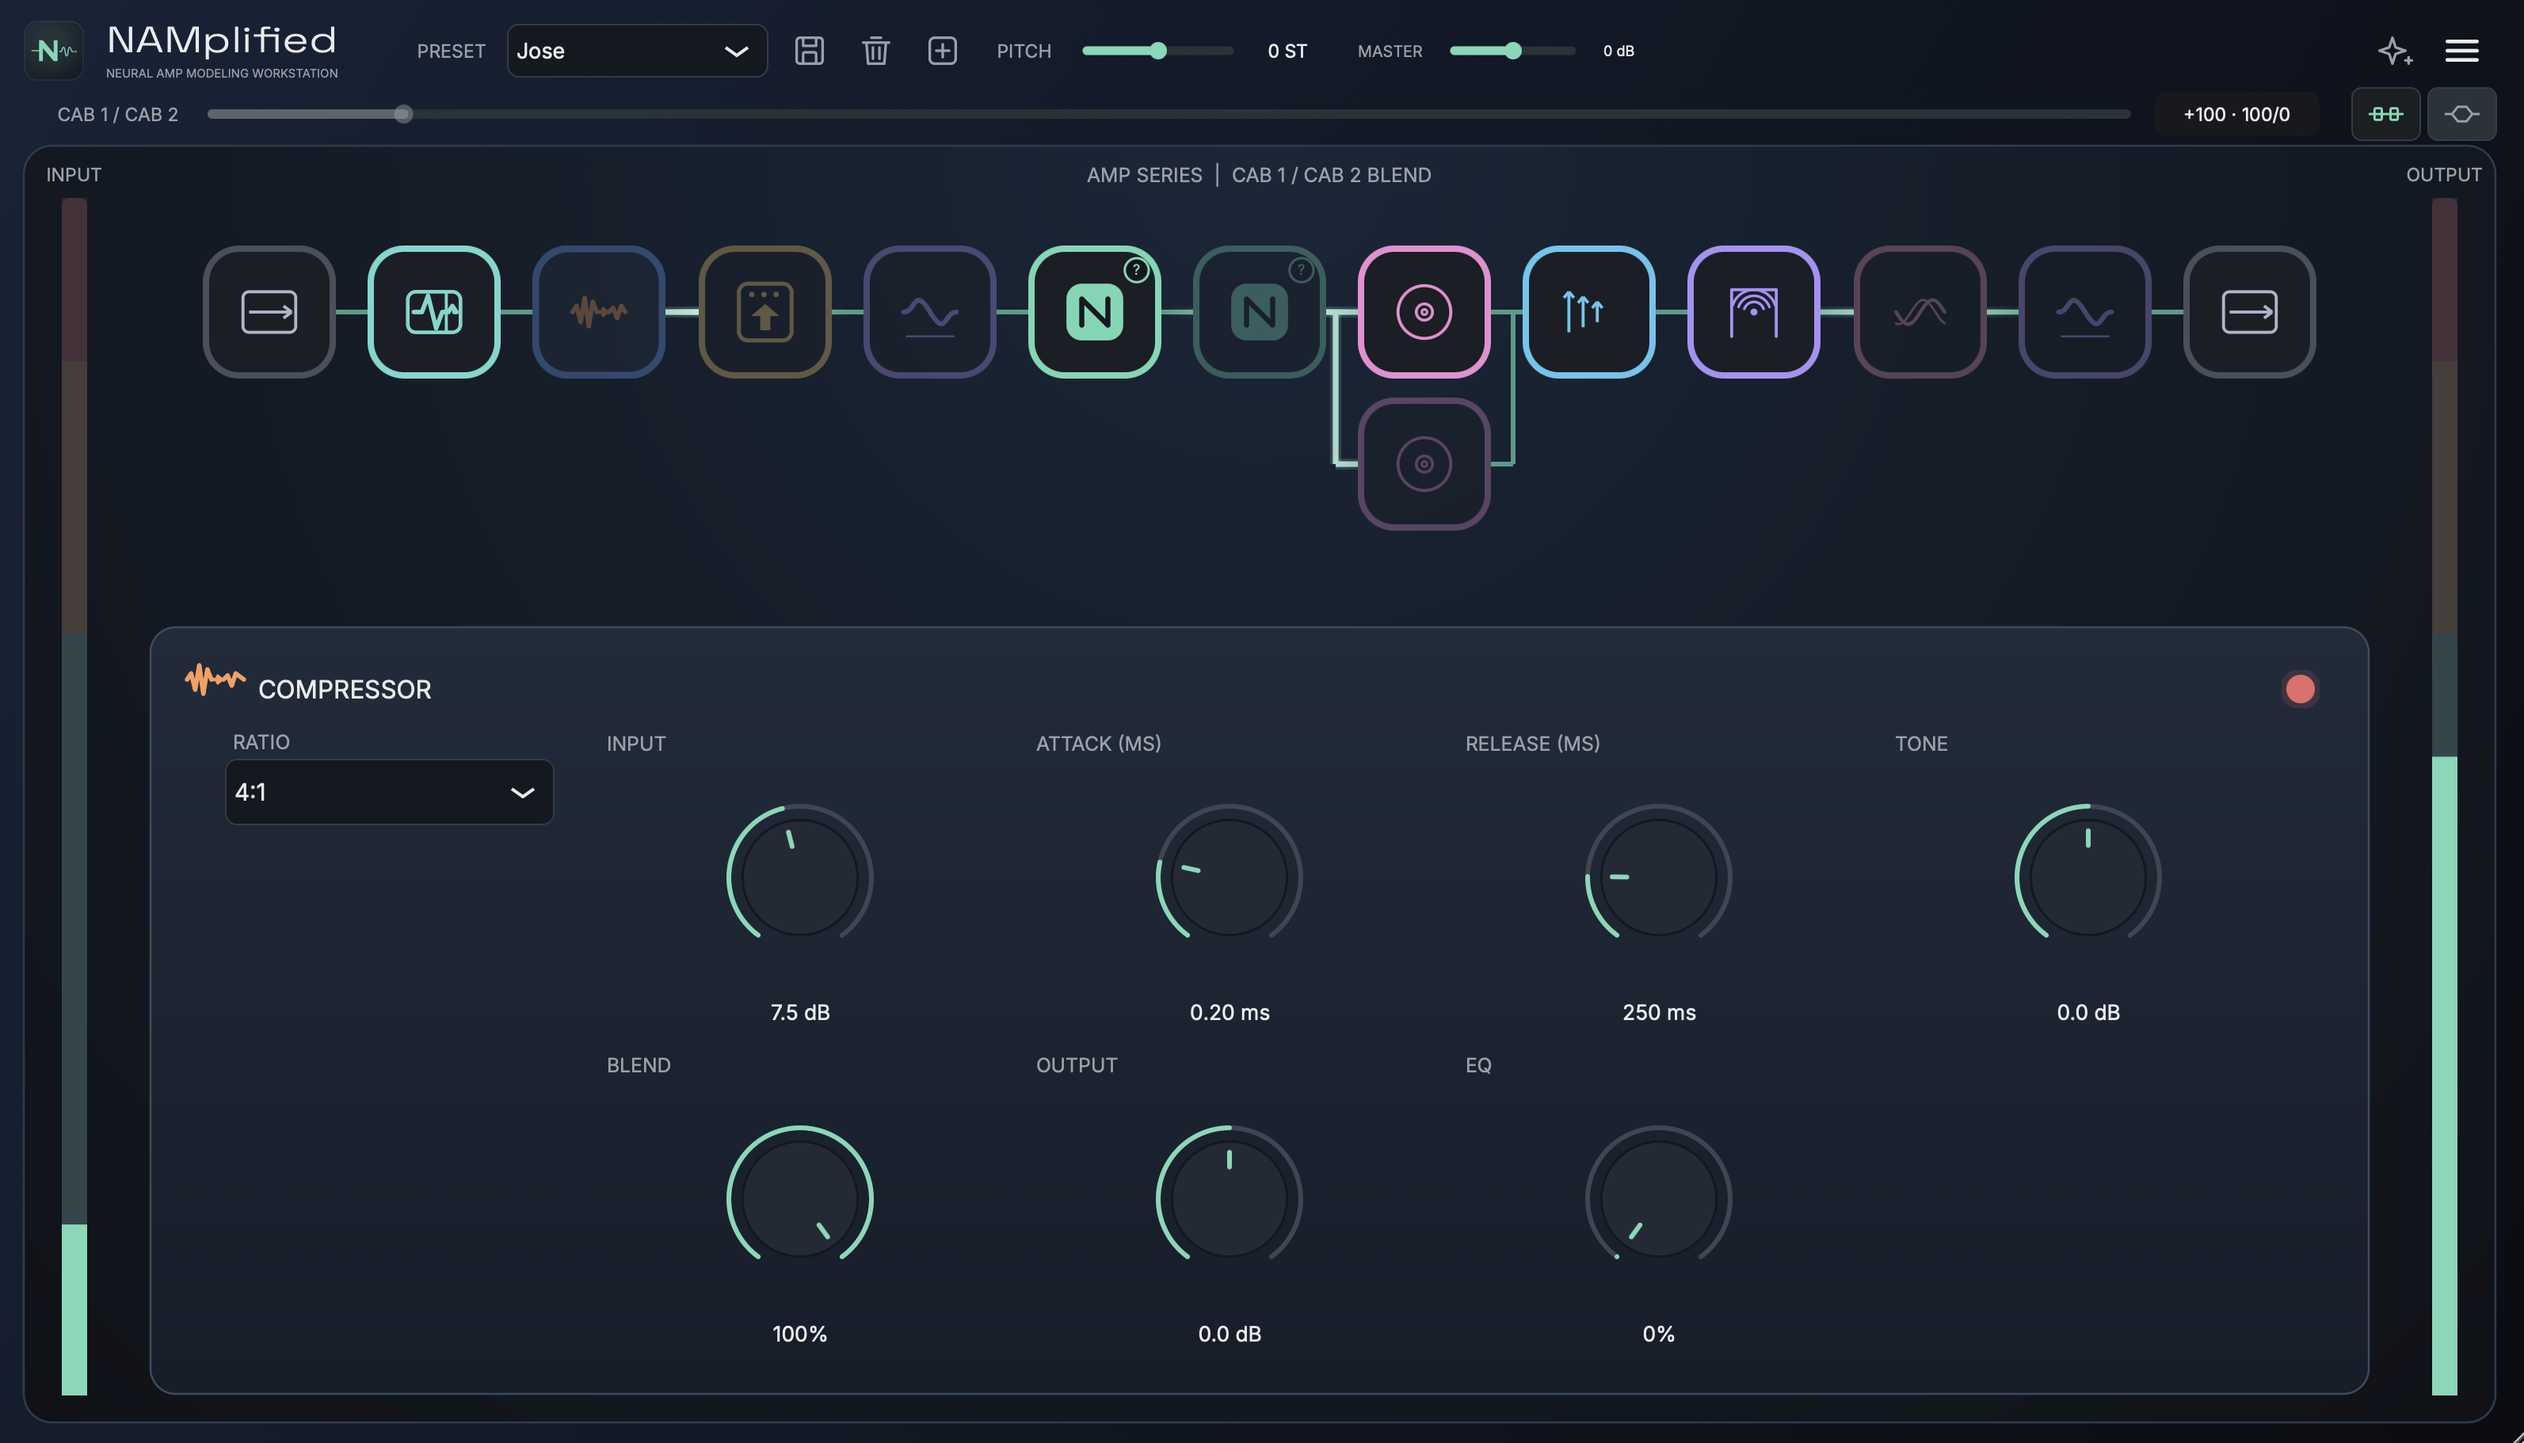
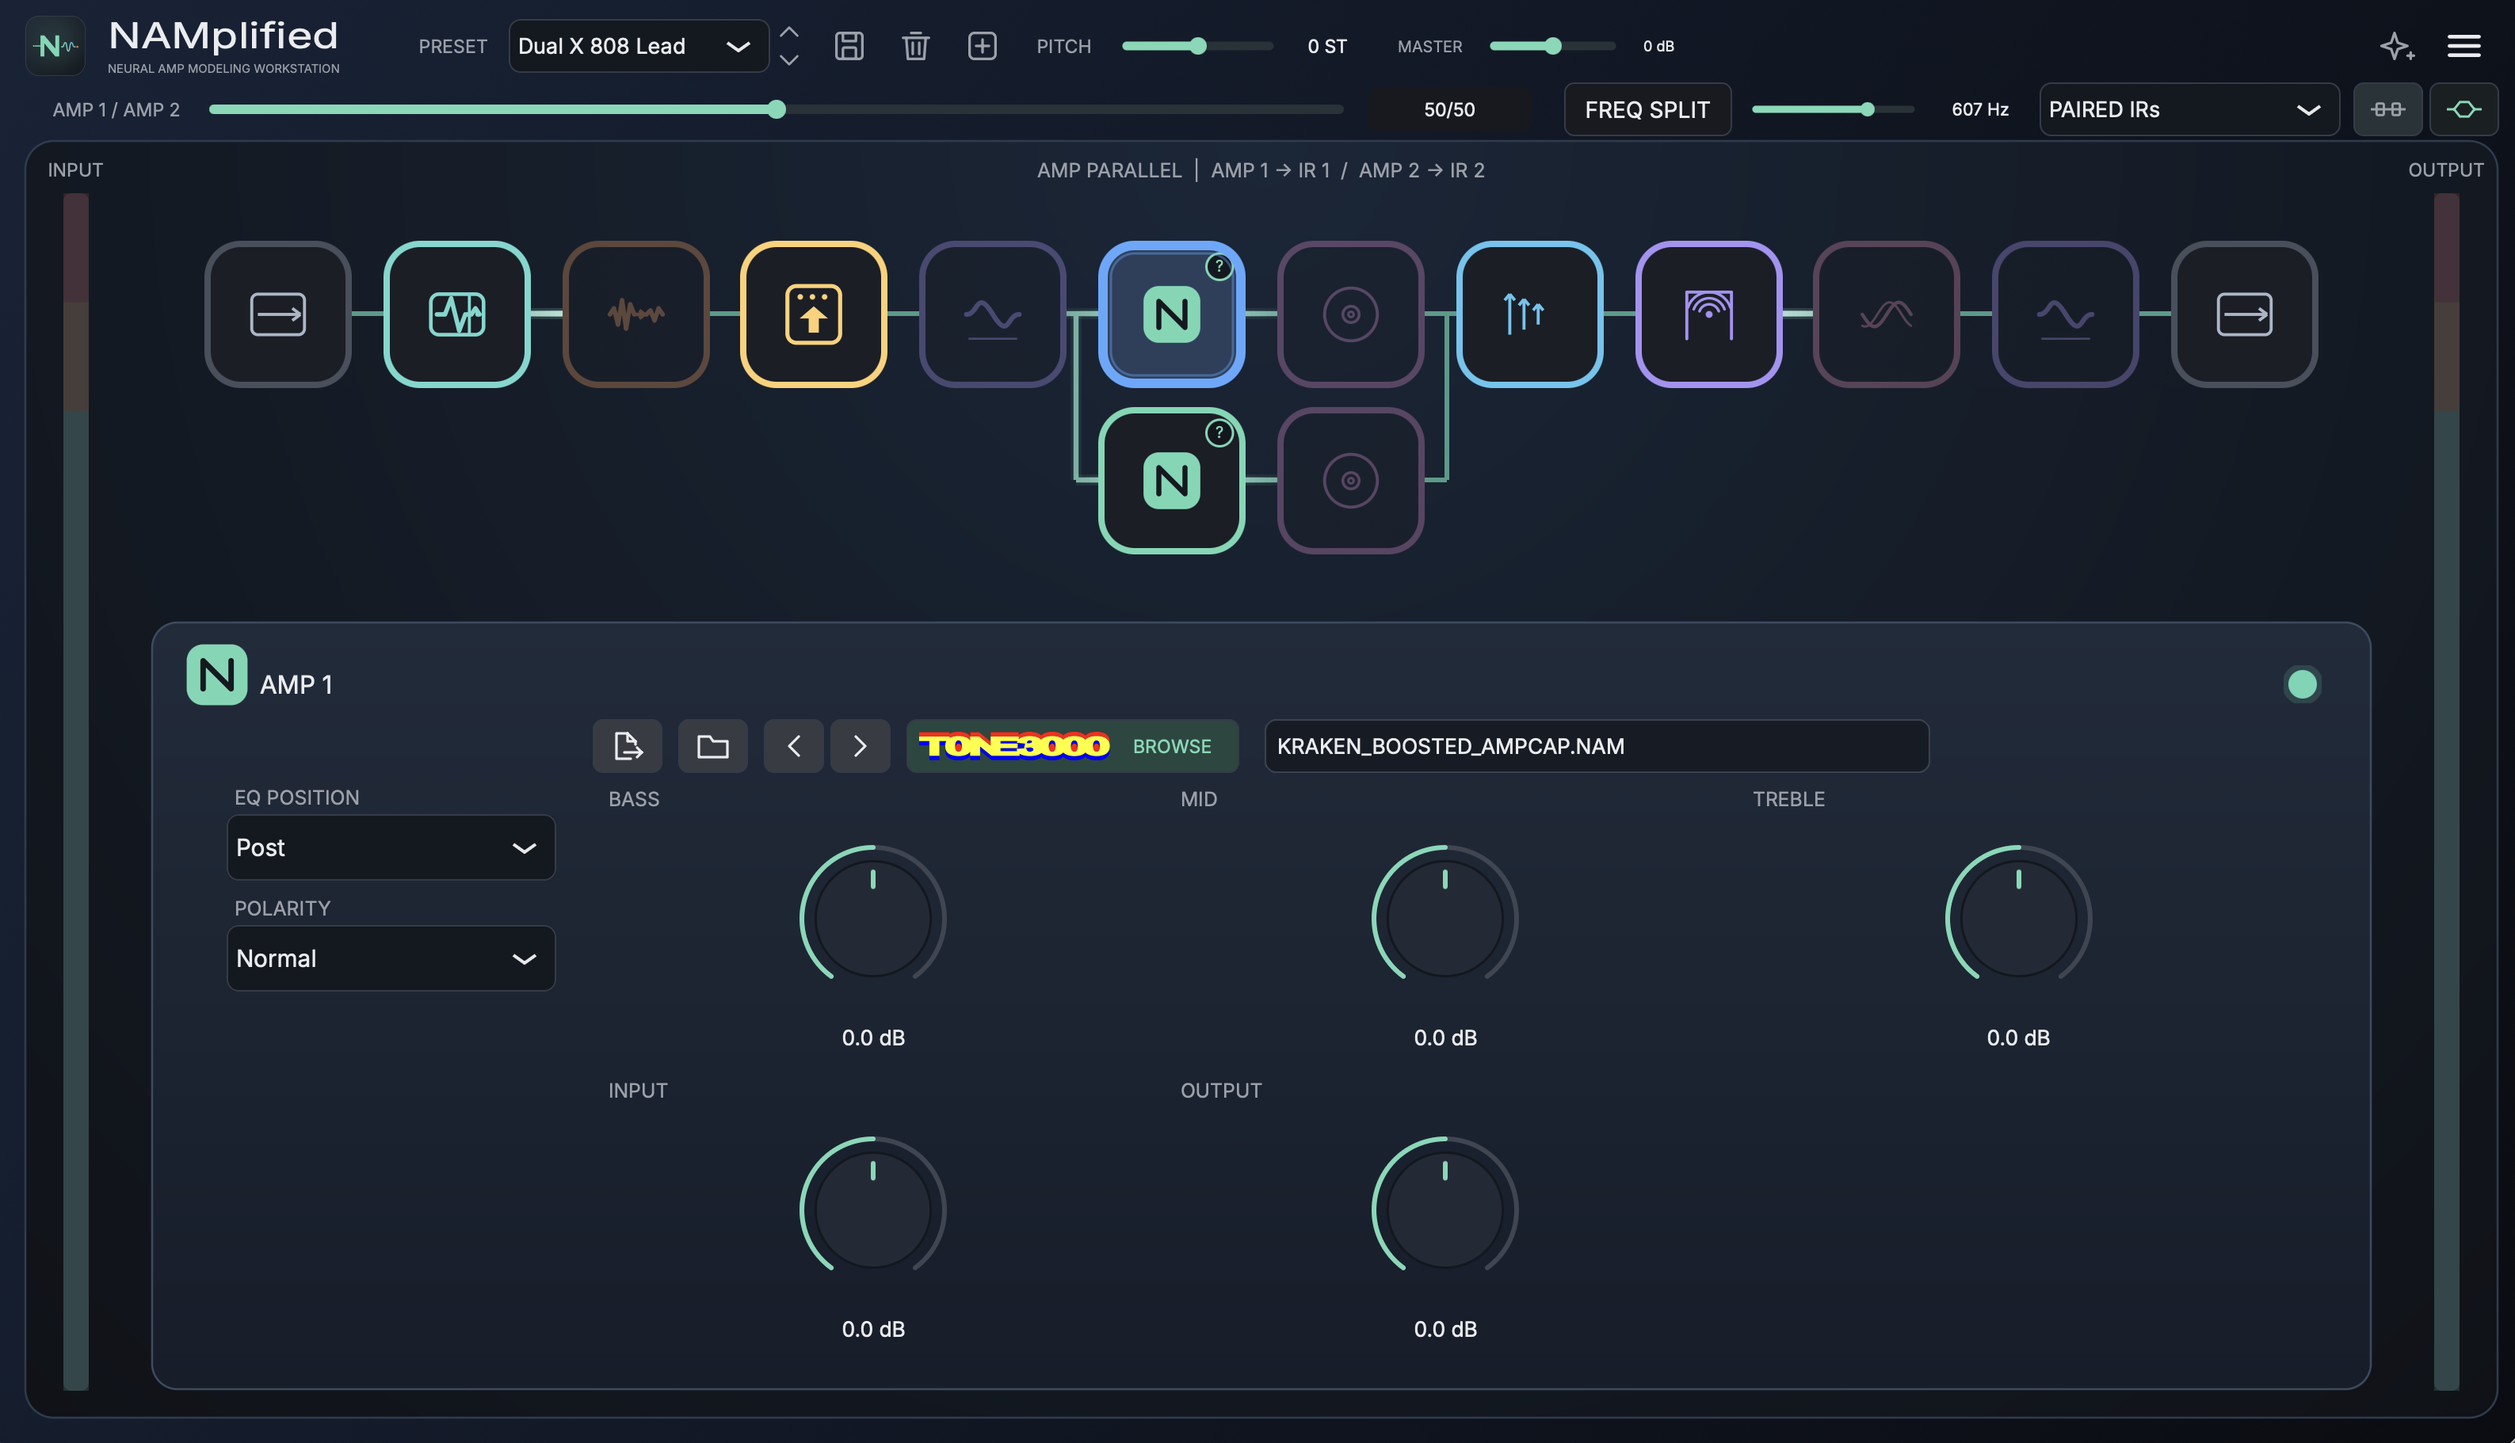
Show updated NAMplified and cab controls

diff --git a/README.md b/README.md
@@ -47,12 +47,13 @@ The amp slots can run **in series** or **in parallel**. In series, the output of
 
 Both NAM slots can run in series or parallel without changing the overall routing layout.
 
-### Cabinet IRs
+### Cabinet IRs and Virtual Cab
 
 - Load up to two cabinet impulse responses in WAV, AIFF, FLAC, or OGG format.
 - Blend the two IR paths in parallel; the IRs are summed from their input rather than cascaded one after another.
 - Use **IR Shape EQ** on each cabinet slot for low, mid, and high tone shaping.
 - In Shared IR 1 routing, both amp paths feed the shared first IR.
+- **Virtual Cab (development preview):** Switch a cab slot from its IR file to Oversized 4x12, select a C414, SM57, or SM7B, and move the microphone to shape the sound. The same low, mid, and high EQ controls apply in both modes. The preview currently requires a local Standalone build with the generated cab responses.
 
 ### Effects and tone shaping
 
@@ -104,9 +105,19 @@ See the [official API documentation](https://www.tone3000.com/api) and [API term
 
 ## Screenshots
 
-### Signal chain and compressor controls
+### Signal chain and Amp 1 controls
 
-![NAMplified in Series mode with the routing icons and compressor controls visible](docs/images/namplified-signal-chain.png)
+![NAMplified in parallel mode with paired cabinet paths and Amp 1 controls](docs/images/namplified-signal-chain.png)
+
+### Cab sources
+
+**IR** loads a cabinet impulse response and offers independent low, mid, and high EQ.
+
+![Cab 1 with a WAV impulse response selected and the cabinet EQ controls visible](docs/images/namplified-cab-ir.png)
+
+**Virtual Cab (development preview)** shows the Oversized 4x12, selectable microphones, and position controls directly in the cab block.
+
+![Cab 1 in Virtual Cab mode with the Oversized 4x12, SM57, and microphone position controls](docs/images/namplified-virtual-cab.png)
 
 ### Amp and cabinet routing
 
